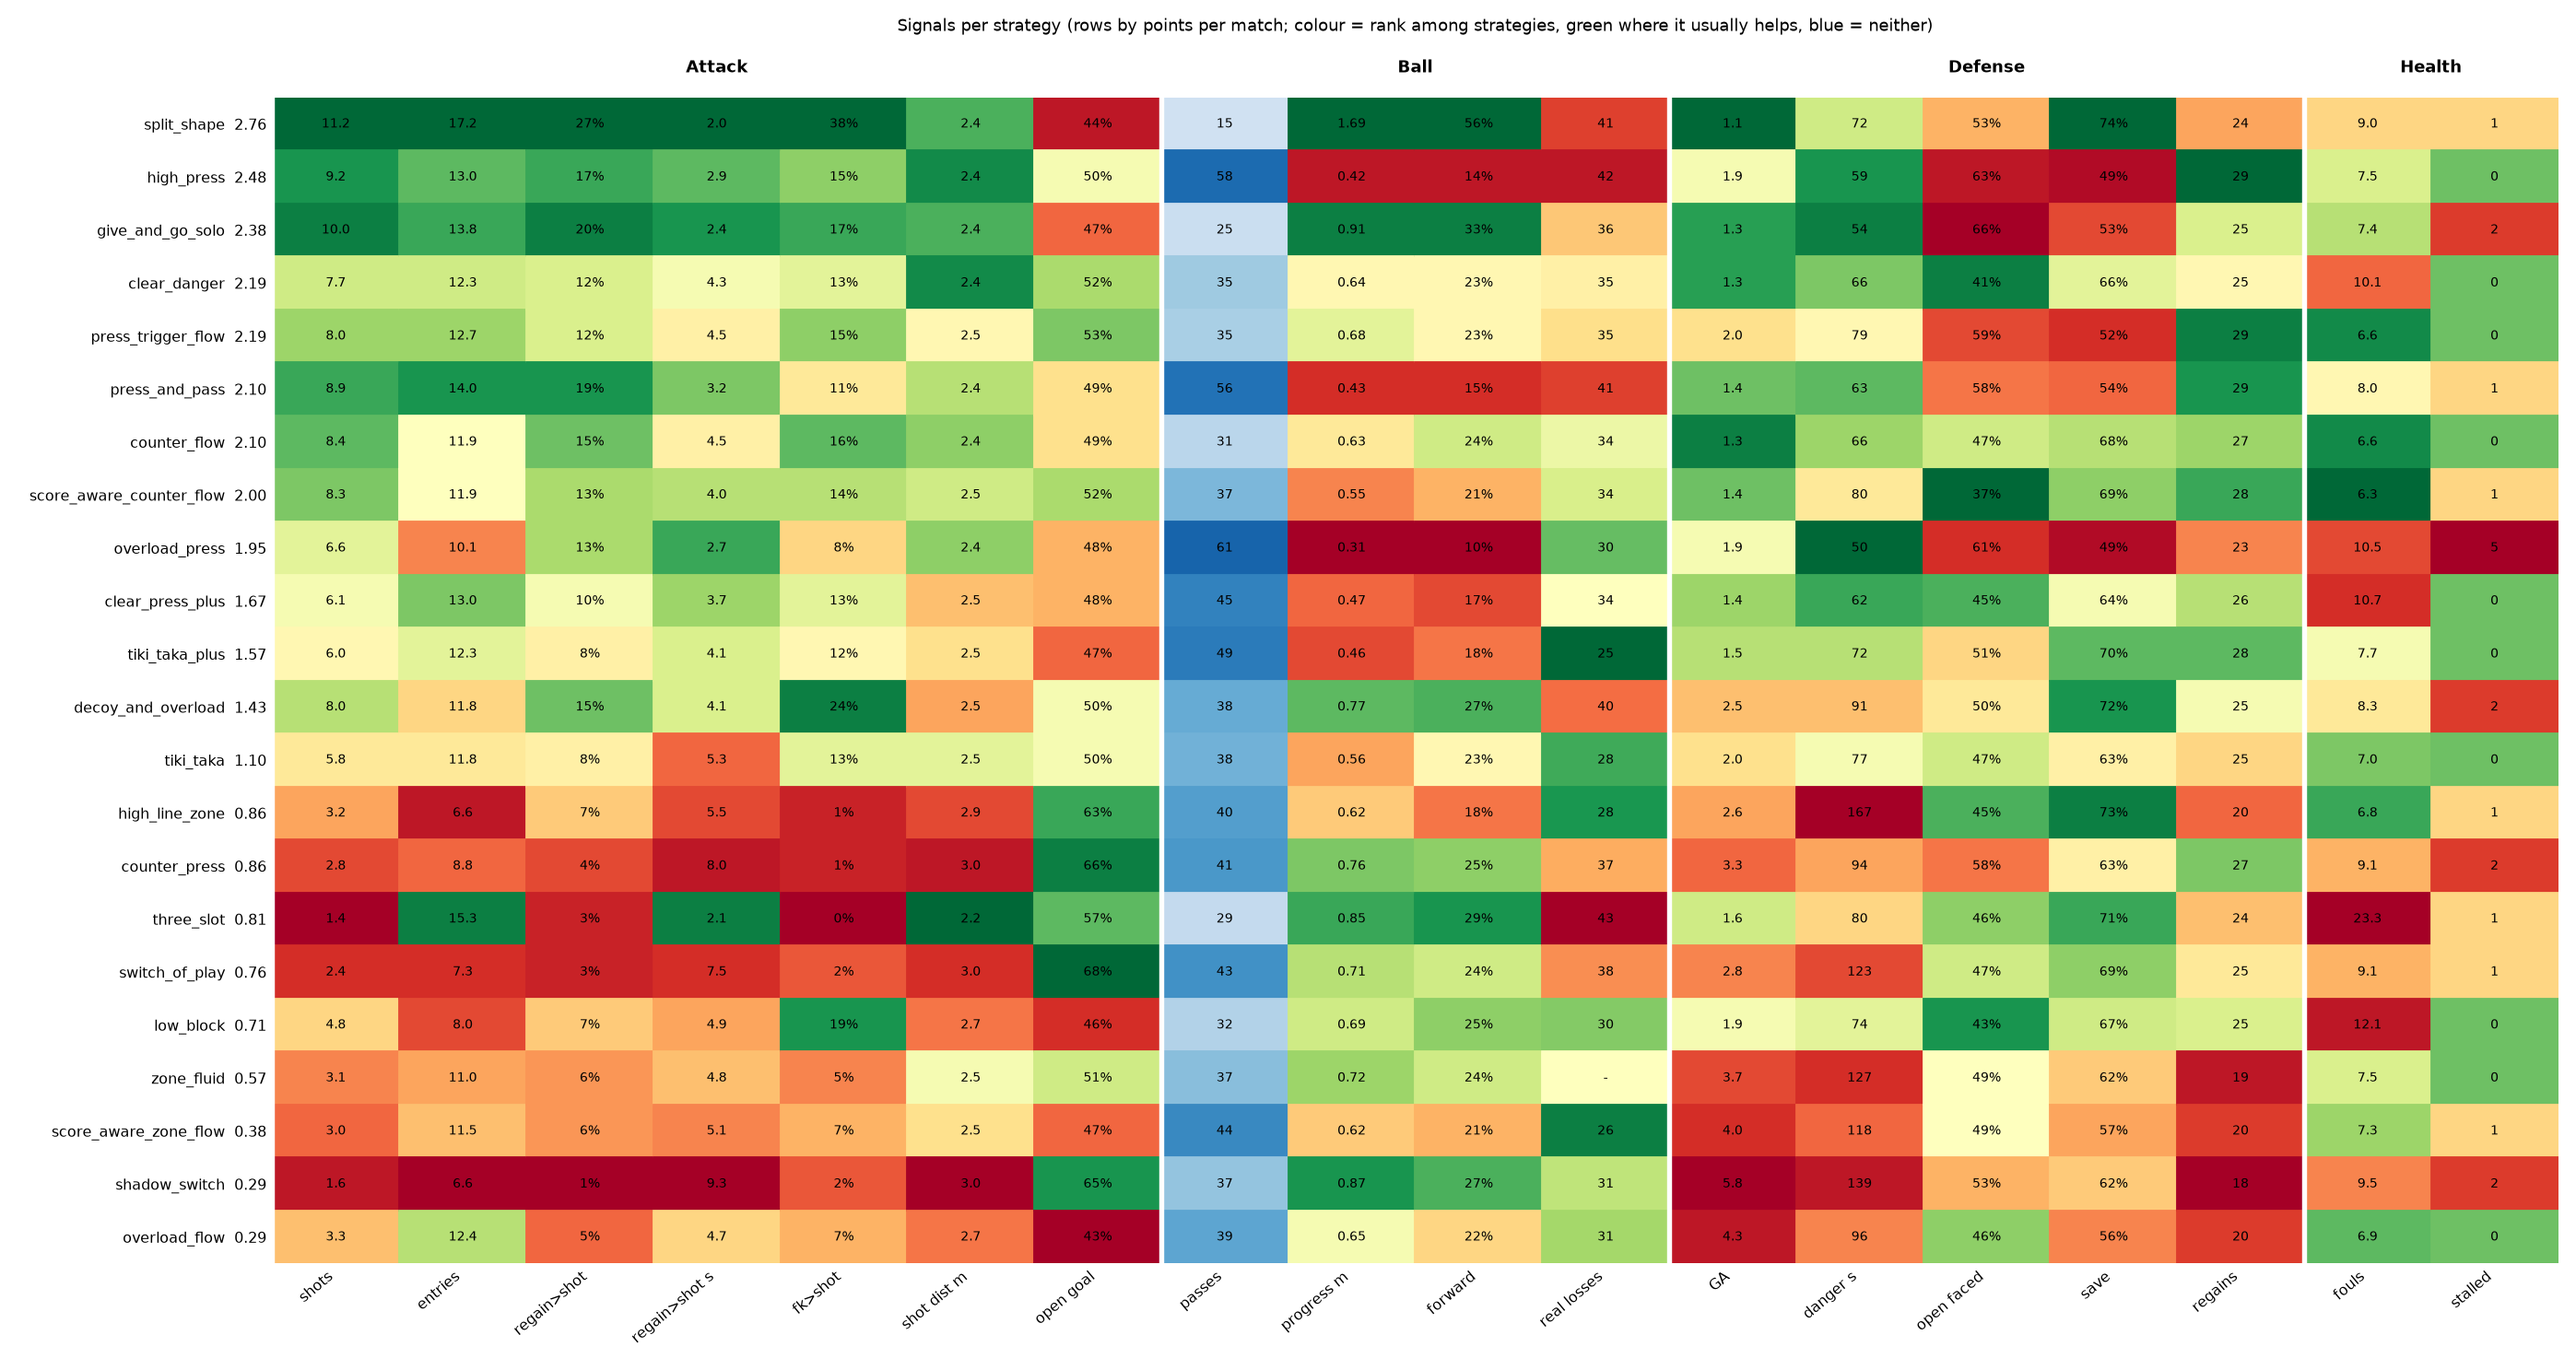
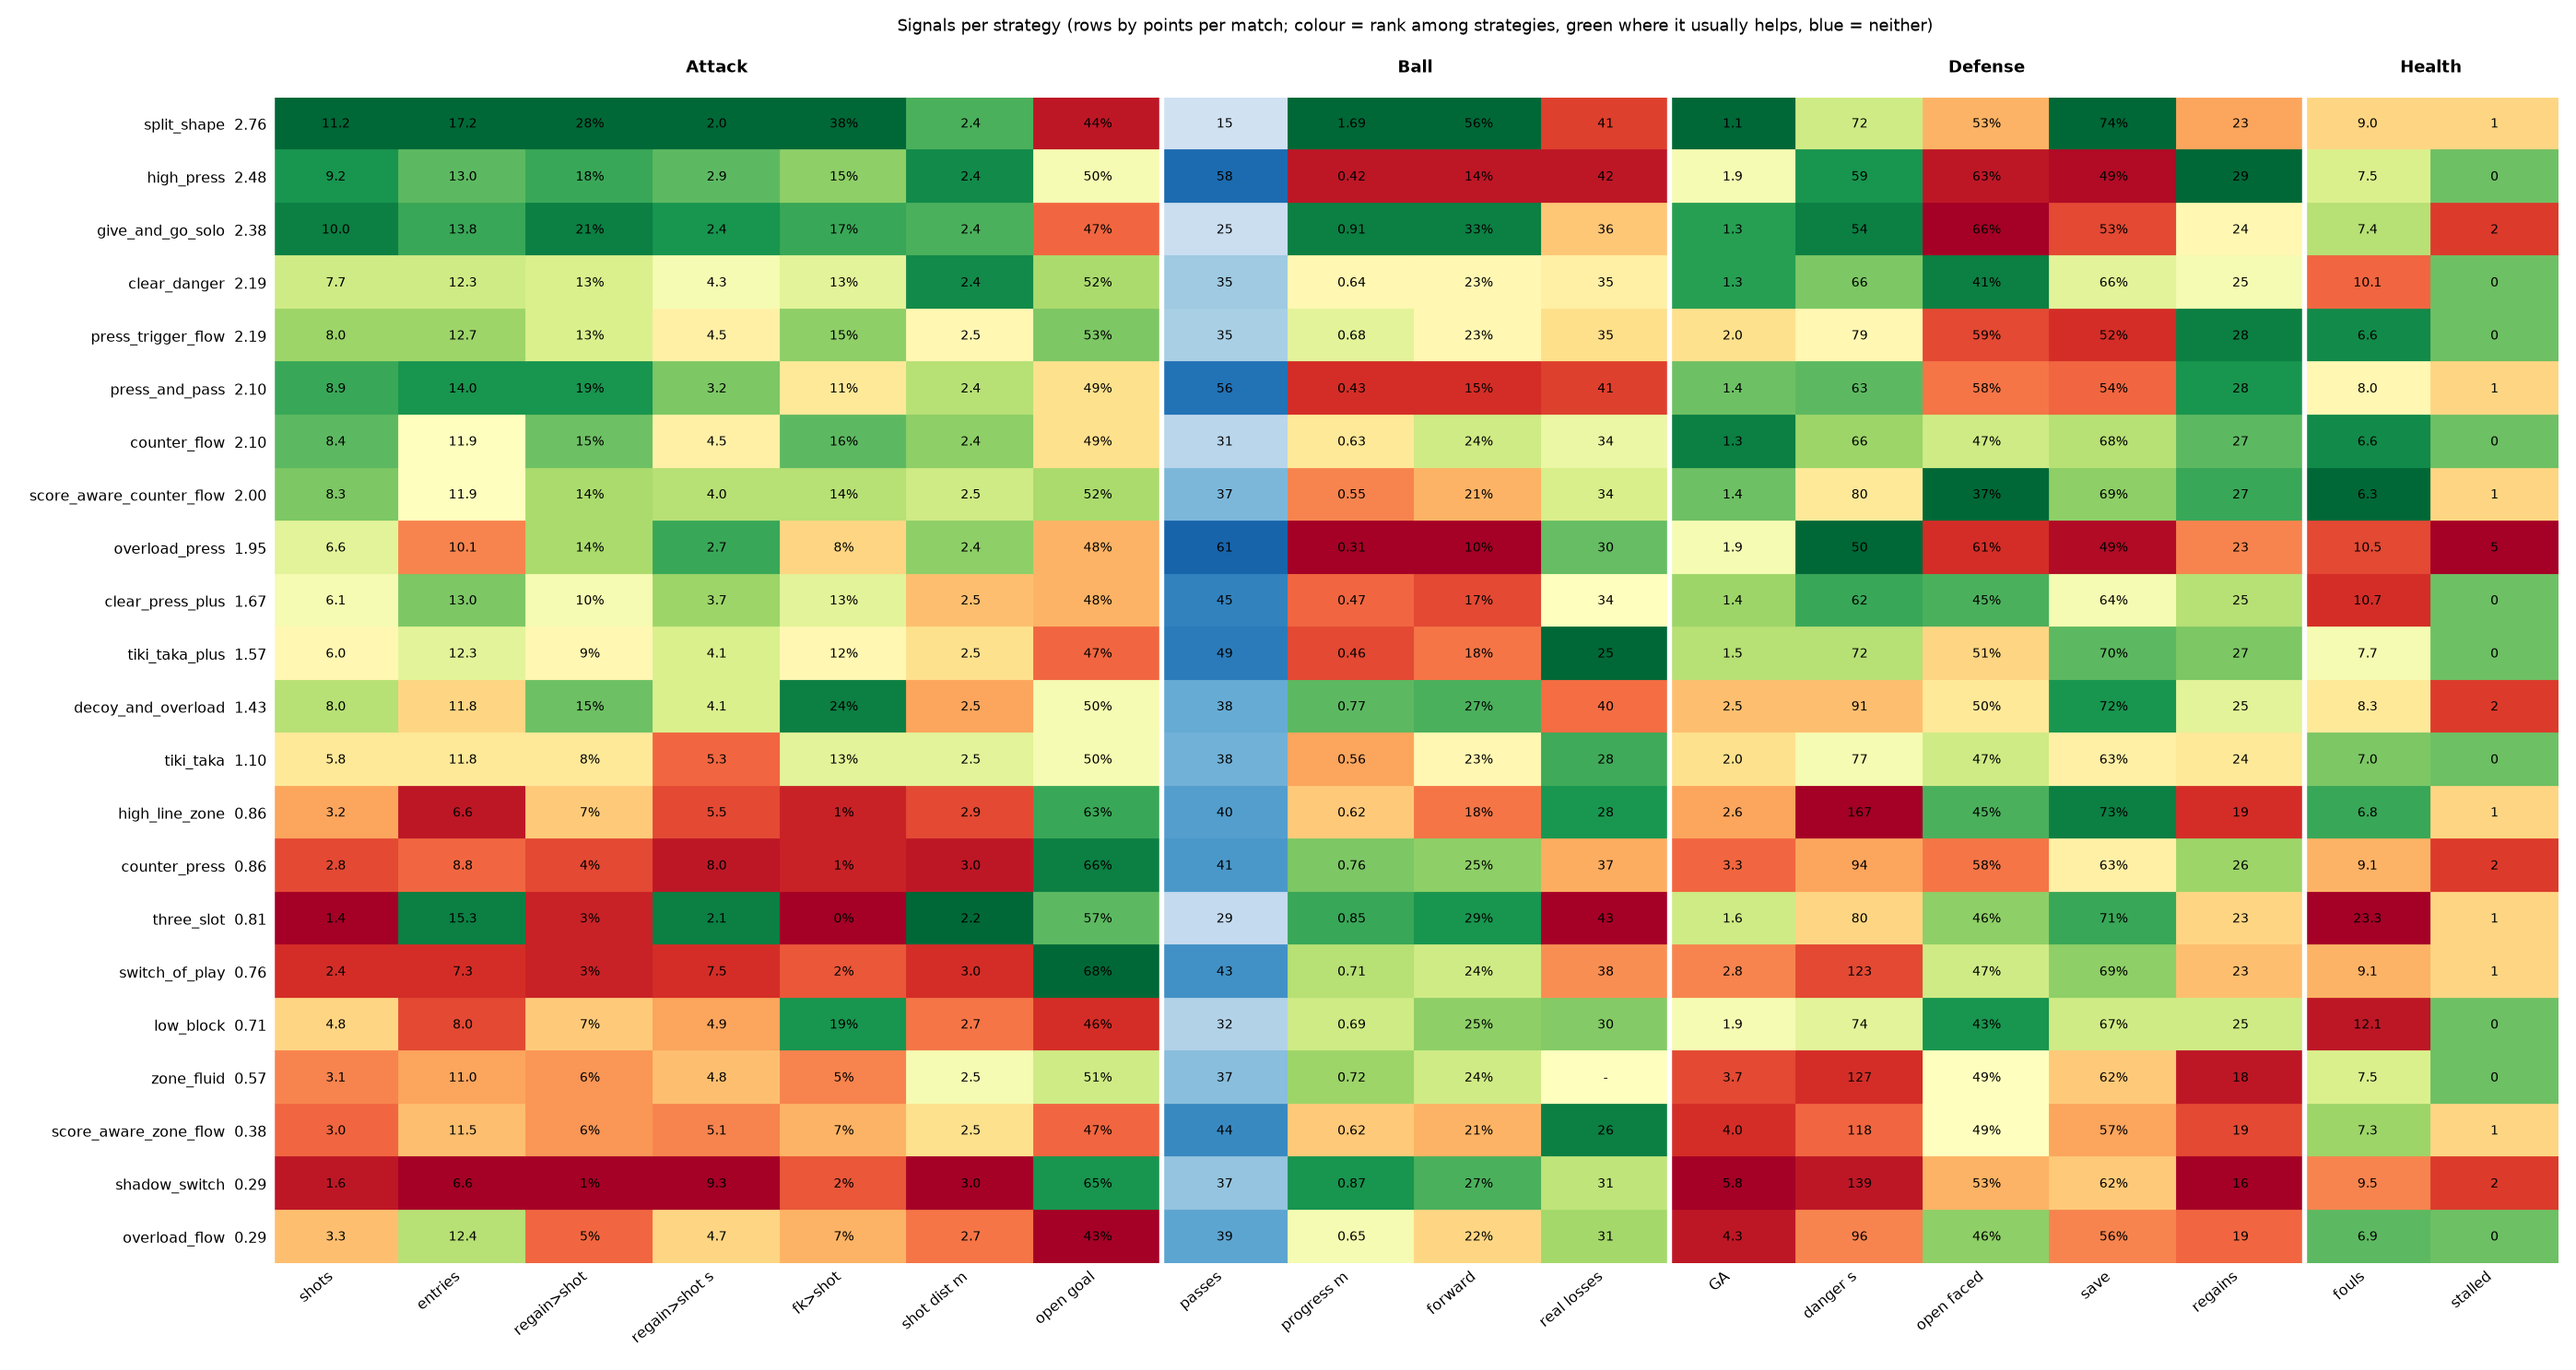
A stoppage ends the possession spell, so a restart's shot isn't credited to the regain before it
Copilot review: MatchStatsAccumulator keeps _poss_side through a stoppage, so a
regain just before STOP survived the free kick and was credited with the shot
taken from it. The spell now closes when play stops (the regain is recorded
without a shot if it was held long enough) and play after the restart starts a
fresh non-regain spell. Regression test fails before the fix.

Cached analysis of tournament_20261005_170958 refreshed (231 records): regains
fell for 22 strategies (shadow_switch 18 -> 16 a match), split_shape's regain to
shot 27% -> 28%; shots, danger, free kicks and save rate unchanged. signals.md,
the signal report and its heatmap updated.

Claude-Session: https://claude.ai/code/session_01SACGSprm9GiBueqKdxsy2j

diff --git a/utama_core/analysis/chances.py b/utama_core/analysis/chances.py
@@ -129,7 +129,9 @@ class ChanceTracker:
                 self._in_danger[defender] = in_third
 
     def _track_spell(self, side: Optional[str], ts: float, live: bool, live_since: float) -> None:
-        if self._spell is not None and side == self._spell["side"]:
+        # A stoppage ends the spell even if the same side has the ball after it: a shot from
+        # the restart is the restart's, not the open-play regain's.
+        if self._spell is not None and side == self._spell["side"] and live:
             return
         if self._spell is not None and self._spell["regain"]:
             spell = self._spell
@@ -138,7 +140,9 @@ class ChanceTracker:
                     {"side": spell["side"], "t": round(spell["t"], 2), "shot_after_s": spell["shot_after_s"]}
                 )
         regain = self._spell is not None and side is not None and live and ts - live_since > JUST_RESTARTED_S
-        self._spell = None if side is None else {"side": side, "t": ts, "regain": regain, "shot_after_s": None}
+        self._spell = (
+            None if side is None or not live else {"side": side, "t": ts, "regain": regain, "shot_after_s": None}
+        )
 
     def _track_free_kick(self, frame, cmd, ts: float, goal_x: dict[str, float]) -> None:
         if cmd in _FREE_KICKS:

diff --git a/utama_core/tests/analysis/test_chances.py b/utama_core/tests/analysis/test_chances.py
@@ -123,6 +123,29 @@ def test_a_change_of_possession_just_after_a_restart_is_not_a_regain():
     assert [g for g in m.result()["regains"] if g["side"] == "friendly"] == []
 
 
+def test_a_shot_after_a_stoppage_is_not_credited_to_the_regain_before_it():
+    m = _Match()
+    m.poss = ("enemy", 0)
+    m.tick(2.0)
+    m.poss = ("friendly", 0)  # a real regain, then play stops with the friendly side still nearest
+    m.tick(REGAIN_MIN_HOLD_S + 0.5)
+    m.cmd = C.STOP
+    m.tick(1.0)
+    m.cmd = C.DIRECT_FREE_YELLOW
+    m.tick(1.0)
+    m.cmd = C.NORMAL_START
+    m.tick(1.0)
+    m.tick(shot="friendly")  # within CHANCE_WINDOW_S of the regain, but from the free kick
+    m.tick(2.0)
+    m.poss = ("enemy", 0)
+    m.tick()
+
+    r = m.result()
+
+    assert [g["shot_after_s"] for g in r["regains"] if g["side"] == "friendly"] == [None]
+    assert [k["shot_after_s"] is not None for k in r["free_kicks"]] == [True]
+
+
 def test_danger_is_live_time_the_opponent_holds_the_ball_in_the_defensive_third():
     m = _Match()
     m.poss, m.ball = ("enemy", 0), (HALF_LENGTH - 1.0, 0.0)  # near friendly's own goal

diff --git a/docs/signals.md b/docs/signals.md
@@ -61,7 +61,7 @@ Check these first: a broken strategy's other signals mean nothing.
 |---|---|---|---|---|
 | Shots | STRATEGIES `shots`; `chances.shots` | hard balls from the attacking third heading into the goal mouth (on target by construction) | 1.4 (`three_slot`) · 6.1 · 11.2 (`split_shape`) | Few shots with many entries: attacks stall in the final third |
 | Attacking-third entries | STRATEGIES `entries` | times the ball crossed into the attacking third | 6.6 (`shadow_switch`) · 11.9 · 17.2 (`split_shape`) | Few: the build-up never reaches the final third |
-| Regain to shot | CHANCES `regain>shot`, `secs`; `chances.regain_to_shot`, `regain_to_shot_s` | share of open-play regains (kept ≥ 1 s, not just after a restart) followed by a shot within 10 s, and how fast | 1% (`shadow_switch`) · 9% · 27% (`split_shape`); 2.0 s · 4.4 · 9.3 | Low: winning the ball leads nowhere. Slow: too many passes before the shot |
+| Regain to shot | CHANCES `regain>shot`, `secs`; `chances.regain_to_shot`, `regain_to_shot_s` | share of open-play regains (kept ≥ 1 s, not just after a restart) followed by a shot within 10 s, and how fast | 1% (`shadow_switch`) · 9% · 28% (`split_shape`); 2.0 s · 4.4 · 9.3 | Low: winning the ball leads nowhere. Slow: too many passes before the shot |
 | Free kick to shot | CHANCES `fk>shot`; `chances.free_kick_to_shot`, `attacking_free_kick_to_shot` | share of the side's free kicks (corner and goal kicks included) followed by a shot within 10 s | 0% (`three_slot`) · 12% · 38% (`split_shape`) | Low in the attacking third: set pieces are wasted |
 | Shot distance | CHANCES `dist`; `chances.shot_distance_m` | metres from the goal centre where the shooting side last held the ball | 2.2 · 2.5 · 3.0 m | Far: shooting because nothing better was found |
 | Open goal mouth | CHANCES `open`; `chances.shot_open_goal` | share of the goal mouth no opponent blocked at the shot. Tops out near 75%, the keeper always covers some | 43% · 50% · 68% | Low: shooting into bodies; the attack never opens a lane |
@@ -88,7 +88,7 @@ Check these first: a broken strategy's other signals mean nothing.
 | Danger conceded | CHANCES `danger`; `chances.danger_s_per_match`, `danger_spells_per_match` | seconds the enemy held the ball in the side's defensive third in live play, and how many separate spells | 50 (`overload_press`) · 78 · 167 s (`high_line_zone`) | High: the defense doesn't win the ball back near its goal or lets the enemy settle there. One stalled match can add hundreds of seconds |
 | Shots faced, open goal faced | `chances.shots_faced`, `faced_open_goal` | the enemy's shots and how open they were | open 37% · 49% · 66% (`give_and_go_solo`) | Open shots faced: nobody blocks the lane; usually everyone is upfield |
 | Save rate | CHANCES `save`; `chances.save_rate` | 1 - goals from shots / shots faced. Every strategy fields the same keeper, so this measures the shots the defense allows | 49% (`high_press`) · 64% · 74% (`split_shape`) | Low: see open goal faced |
-| Regains | `chances.regains` | open-play regains kept ≥ 1 s | 18 (`shadow_switch`) · 25 · 29 (`high_press`) | Few: the press or the marking doesn't win the ball |
+| Regains | `chances.regains` | open-play regains kept ≥ 1 s | 16 (`shadow_switch`) · 25 · 29 (`high_press`) | Few: the press or the marking doesn't win the ball |
 
 ## Restarts
 

diff --git a/docs/signal_report.md b/docs/signal_report.md
@@ -19,7 +19,7 @@ Rows by points per match (the number after each name). Each column is coloured b
 22 strategies, green where the value usually helps; passes are blue because more is neither
 better nor worse. The printed number is the real value: per match, or a share.
 
-- **`split_shape` is green across attack**: most shots and entries, a shot after 27% of its
+- **`split_shape` is green across attack**: most shots and entries, a shot after 28% of its
   regains (2.0 s on average) and after 38% of its free kicks, 1.7 m gained per pass. It makes the
   fewest passes (15) and creates the most.
 - **The next three win by pressing, not passing.** `high_press`, `give_and_go_solo` and
